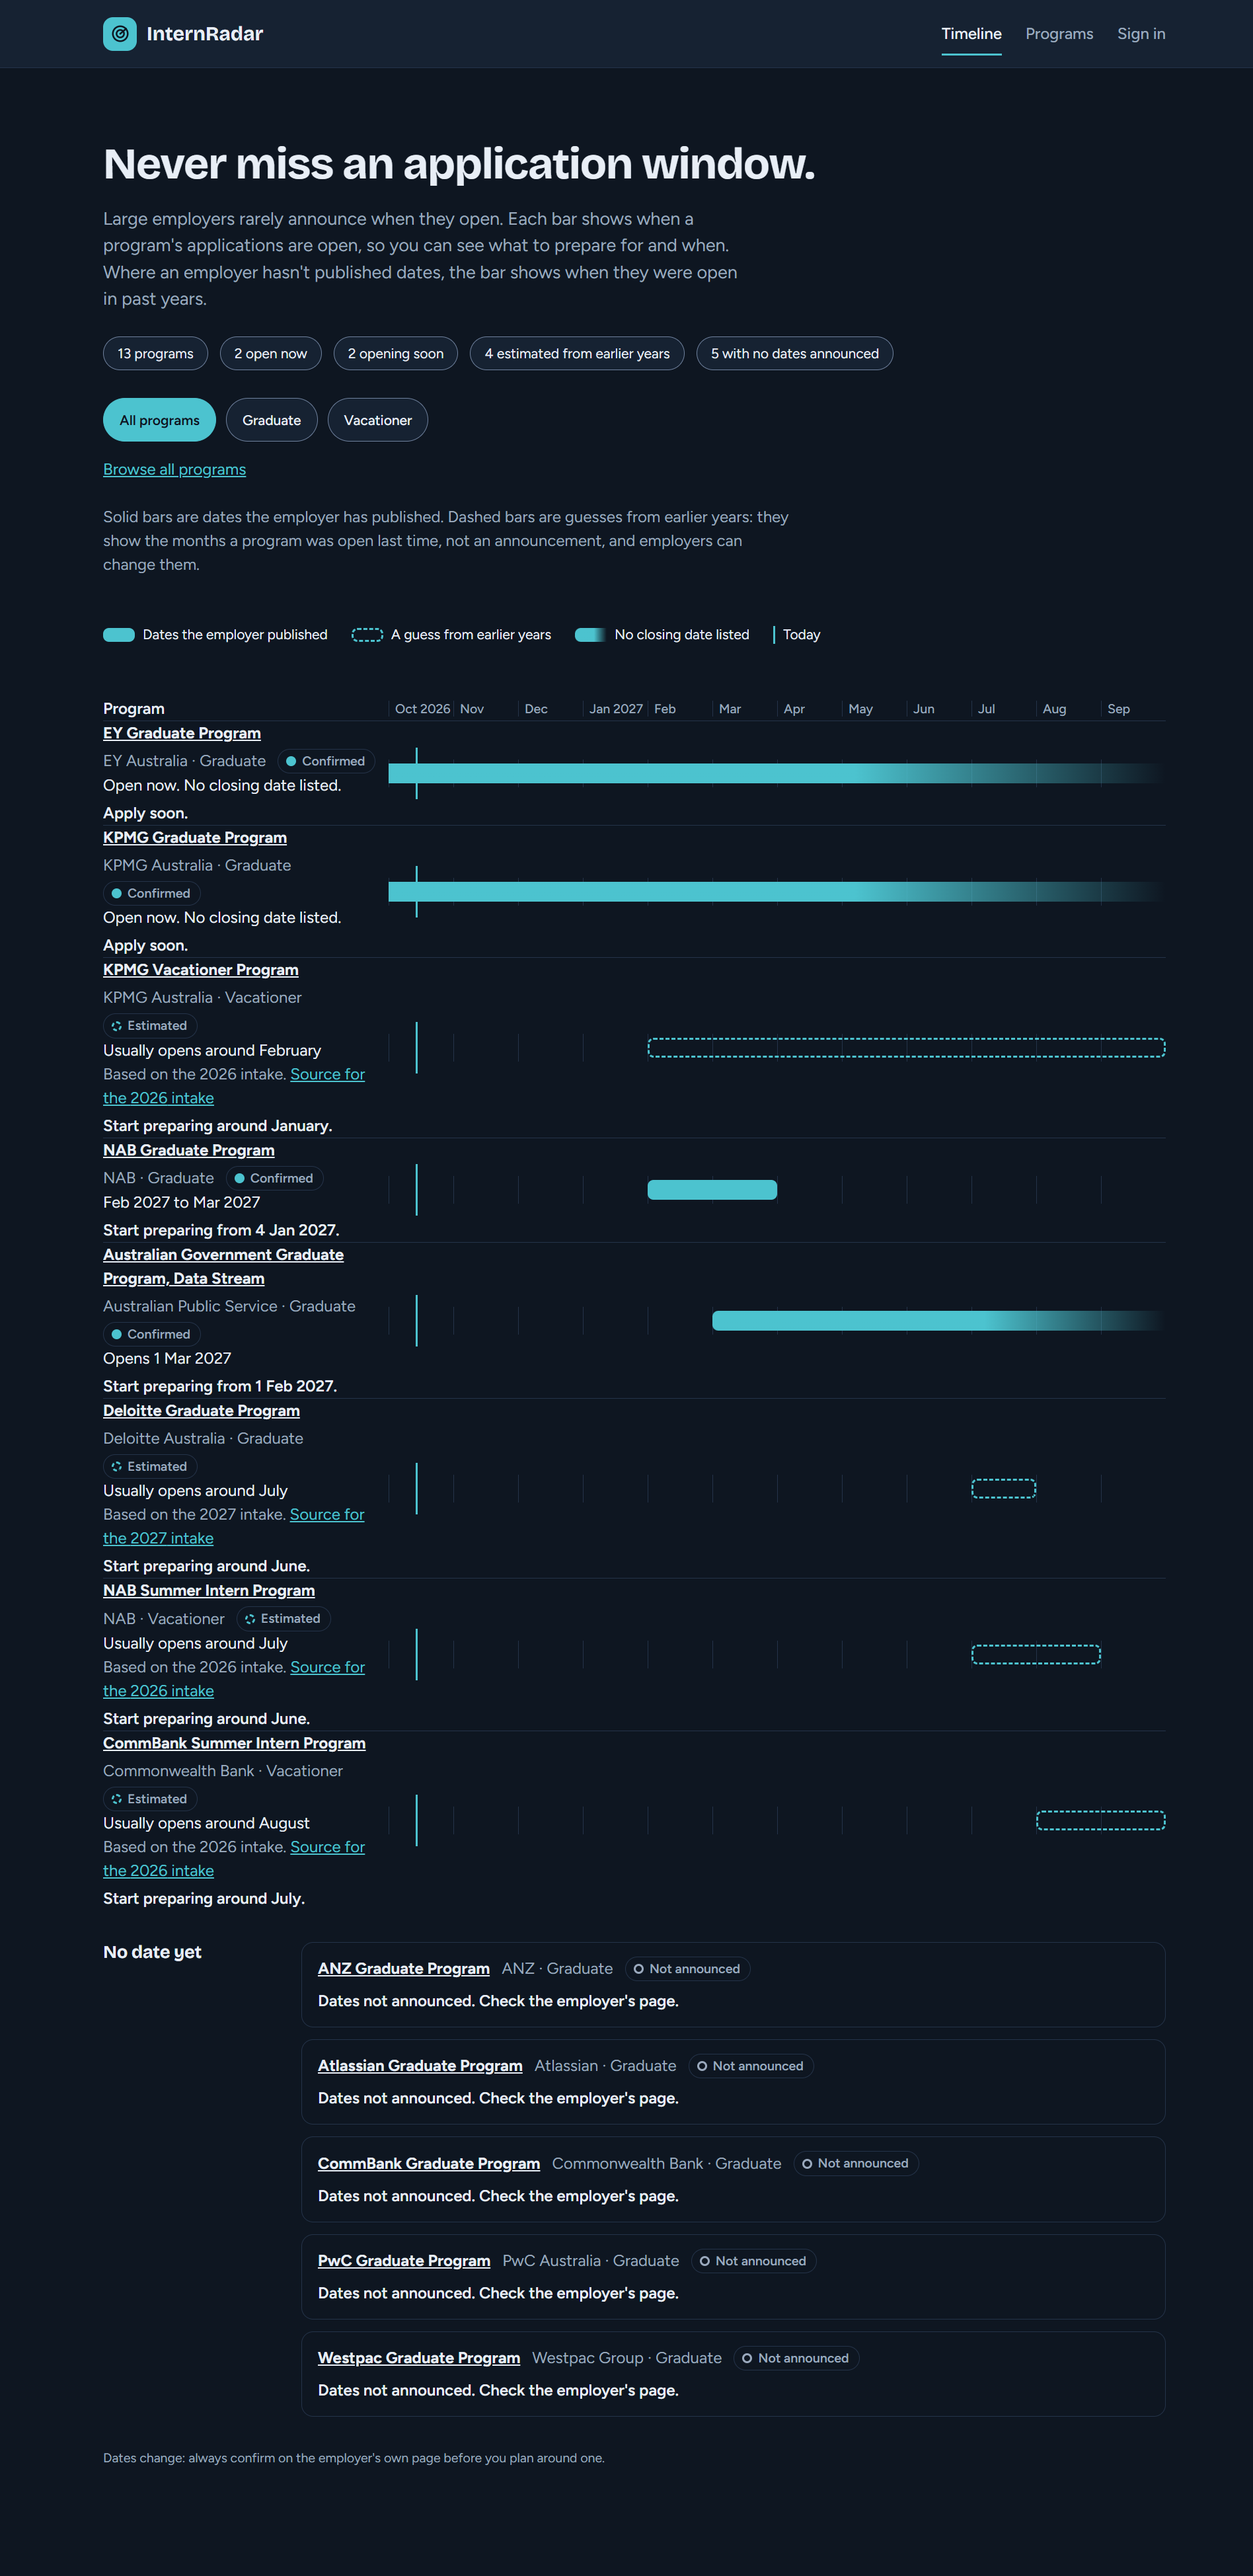
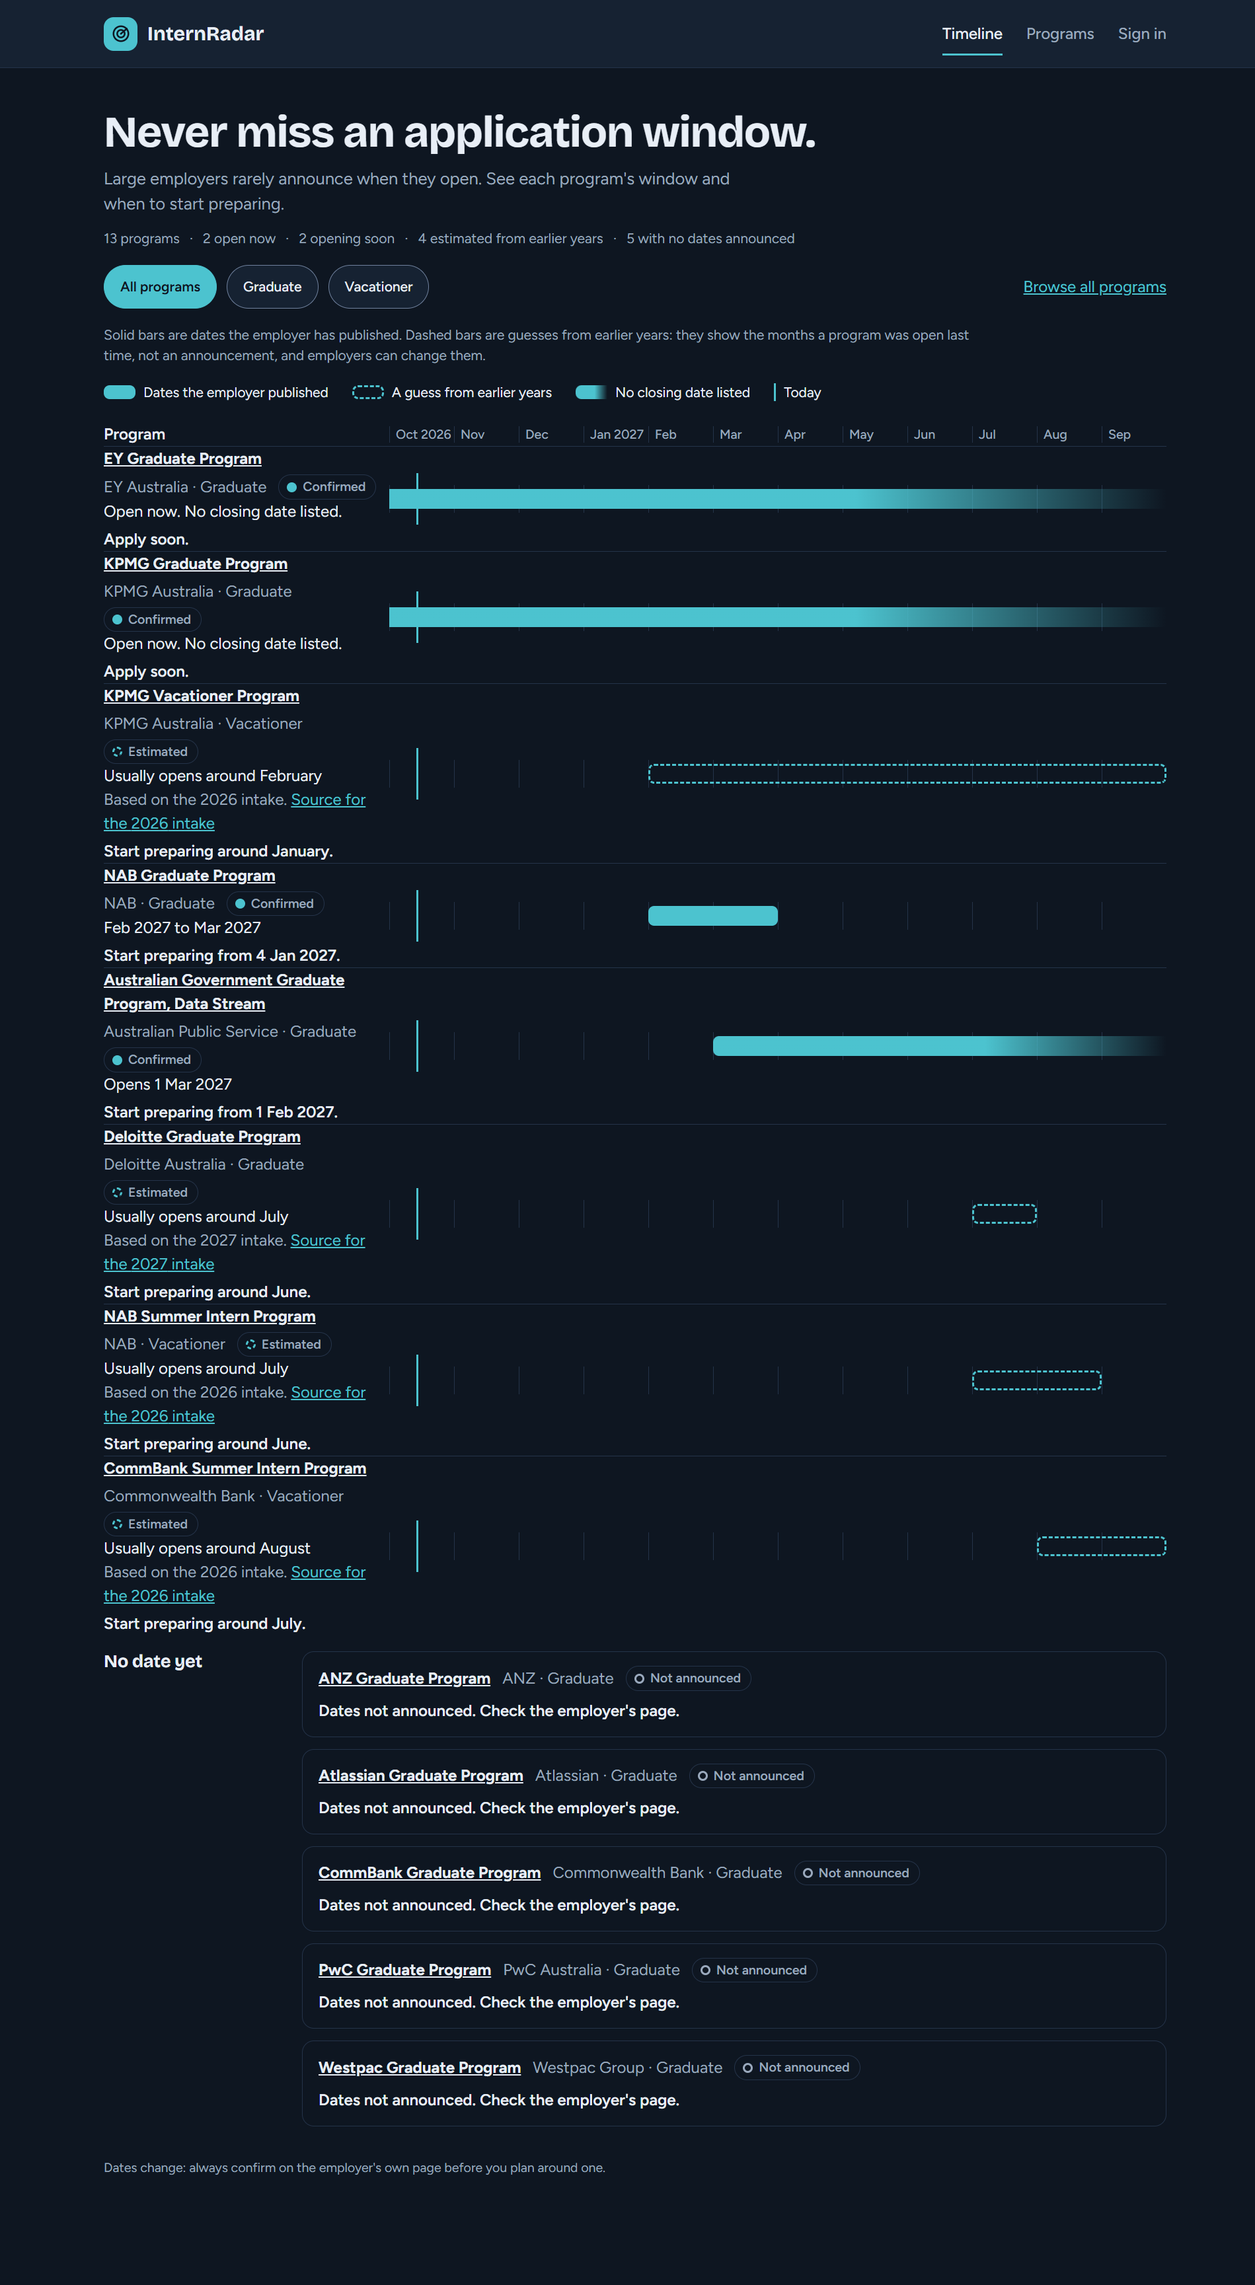
docs: evidence for the compact home page and a new timeline screenshot

diff --git a/docs/testing/timeline-filter.tdd.md b/docs/testing/timeline-filter.tdd.md
@@ -73,6 +73,31 @@ date text ("Open now. No closing date listed.") and again in the advice ("No clo
 |---|---|
 | `7b948f6`: 3 tests failed (the advice text, a row assertion, and a new "says it once" test) | `3fe8f04`: the advice is now "Apply soon."; the affected files pass, then lint, typecheck, 947 unit tests (97.11% statements, 95.86% branches), build and the 11 guard tests all exit 0 |
 
+## A compact top for the home page (so the chart is on screen)
+
+The chart's first row started below the fold at 1280x720. The intro, five summary pills, the filters, a separate
+link, a three-line note and the legend all sat above it. Layout is CSS, which jsdom cannot measure, so the
+RED/GREEN here is two parts: structure and copy guarded by unit tests, and the position measured in Chrome.
+
+| | RED (`c3f2be8`) | GREEN |
+|---|---|---|
+| Guard tests | 2 failed: the intro was over 160 characters, and the filters and the "Browse all programs" link were not in one toolbar | `page.test.tsx` 18 of 18, `accessibility.test.tsx` 7 of 7 |
+| First chart row, top edge at 1280x720 | 727 px (below the 720 px fold) | 451 px; the first two rows end by 690 px |
+| At 1440x900 | (not measured before) | first row at 451 px, 3 rows fully visible |
+| Page height (full-page screenshot) | 3897 px | 3458 px |
+
+What changed: the intro is one sentence (the solid-versus-dashed explanation stays in the chart note, which a test
+protects), the summary is a single line of text above the filters, the filters and the link to all programs share a
+toolbar, and spacing is tighter. The rules are scoped to `.timeline-page`, so the programs feed is unchanged.
+
+A bug I introduced and fixed on the way: the separator between summary items was written as a CSS escape that was
+saved with a NUL byte, so the browser showed "b7" with a replacement character. Seen in the screenshot, replaced
+with a literal middle dot, and confirmed in the browser (`::before` content is a middle dot).
+
+After the change: `pnpm lint`, `pnpm typecheck`, the build and the guards (11) exit 0; 949 unit tests, 97.11%
+statements, 95.86% branches. Lighthouse accessibility is 100 on `/` for desktop and mobile, so the quieter summary
+text keeps its contrast. No page-level horizontal scroll at 501 px, the narrowest the browser window would go.
+
 ## Known gaps
 
 - Lighthouse was run on three pages, not every page. Tab order and focus rings were not walked by hand in the
